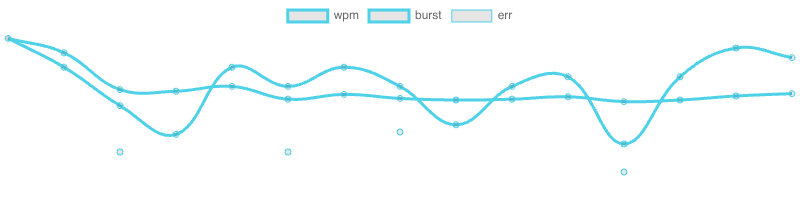
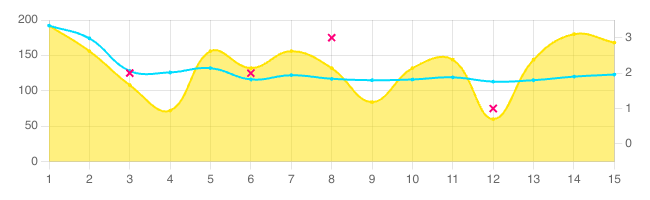
fuck chartjs im gonna do this myself

diff --git a/src/graph-old.ts b/src/graph-old.ts
@@ -1,0 +1,159 @@
+// import { Canvas } from "skia-canvas";
+
+// import {
+//   Chart,
+//   LineController,
+//   LineElement,
+//   PointElement,
+//   LinearScale,
+//   CategoryScale,
+//   registerables,
+// } from "chart.js";
+// Chart.register(
+//   ...registerables,
+//   LineController,
+//   LineElement,
+//   PointElement,
+//   LinearScale,
+//   CategoryScale,
+// );
+
+// const canvas = new Canvas(650, 200);
+// const ctx = canvas.getContext("2d");
+
+// ctx.fillStyle = "#fff";
+// ctx.fillRect(0, 0, canvas.width, canvas.height);
+
+// new Chart(canvas as any, {
+//   data: {
+//     labels: [1, 2, 3, 4, 5, 6, 7, 8, 9, 10, 11, 12, 13, 14, 15],
+//     datasets: [
+//       {
+//         type: "line",
+//         label: "wpm",
+//         yAxisID: "wpm",
+//         data: [
+//           192, 174, 128, 126, 132, 116, 122, 117, 115, 116, 119, 113, 115, 120,
+//           123,
+//         ],
+//         borderColor: "#00DDFF",
+//         borderWidth: 2,
+//         tension: 0.4,
+//         order: 2,
+//         pointRadius: 1,
+//         pointBackgroundColor: "#00DDFF",
+//       },
+//       {
+//         type: "line",
+//         label: "burst",
+//         yAxisID: "wpm",
+//         borderWidth: 2,
+//         data: [
+//           192, 156, 108, 72, 156, 132, 156, 132, 84, 132, 144, 60, 144, 180,
+//           168,
+//         ],
+//         borderColor: "#FFE300",
+//         tension: 0.4,
+//         fill: true,
+//         backgroundColor: "rgba(255, 227, 0, 0.5)",
+//         pointRadius: 1,
+//         order: 3,
+//         pointBackgroundColor: "#FFE300",
+//       },
+//       {
+//         type: "scatter",
+//         yAxisID: "err",
+//         label: "err",
+//         data: [
+//           null,
+//           null,
+//           2,
+//           null,
+//           null,
+//           2,
+//           null,
+//           3,
+//           null,
+//           null,
+//           null,
+//           1,
+//           null,
+//           null,
+//           null,
+//         ],
+//         pointBorderColor: "#FF007B",
+//         borderColor: "#FF007B",
+//         tension: 0.4,
+//         pointStyle: "crossRot",
+//         pointRadius: 5,
+//         pointBorderWidth: 2,
+//         order: 1,
+//       },
+//     ],
+//   },
+//   options: {
+//     layout: {
+//       padding: {
+//         left: 15,
+//         right: 15,
+//         top: 20,
+//         bottom: 10,
+//       },
+//     },
+//     plugins: {
+//       legend: {
+//         display: false,
+//       },
+//     },
+//     scales: {
+//       x: {
+//         grid: {
+//           display: true,
+//         },
+//         ticks: {
+//           display: true,
+//         },
+//         border: {
+//           display: true,
+//         },
+//       },
+//       wpm: {
+//         type: "linear",
+//         display: true,
+//         position: "left",
+//         min: 0,
+//         ticks: {
+//           stepSize: 50,
+//           display: true,
+//         },
+//         grid: {
+//           display: true,
+//         },
+//         border: {
+//           display: true,
+//         },
+//       },
+//       err: {
+//         type: "linear",
+//         display: true,
+//         position: "right",
+//         offset: true,
+//         max: 3,
+//         min: 0,
+//         grid: {
+//           drawOnChartArea: false,
+//           display: true,
+//         },
+//         ticks: {
+//           display: true,
+//           precision: 0,
+//         },
+//         border: {
+//           display: true,
+//         },
+//       },
+//     },
+//   },
+// });
+
+// await Bun.write("chart.png", await canvas.png);

diff --git a/src/index.ts b/src/index.ts
@@ -23,136 +23,6 @@ const client = new WebClient(process.env.SLACK_BOT_TOKEN);
 
 import { formatInTimeZone } from "date-fns-tz";
 
-import { Canvas } from "skia-canvas";
-
-import {
-  Chart,
-  LineController,
-  LineElement,
-  PointElement,
-  LinearScale,
-  CategoryScale,
-  registerables,
-} from "chart.js";
-Chart.register(
-  ...registerables,
-  LineController,
-  LineElement,
-  PointElement,
-  LinearScale,
-  CategoryScale,
-);
-
-const canvas = new Canvas(800, 200);
-const ctx = canvas.getContext("2d");
-
-ctx.fillStyle = "#fff";
-ctx.fillRect(0, 0, canvas.width, canvas.height);
-
-new Chart(canvas as any, {
-  data: {
-    labels: [1, 2, 3, 4, 5, 6, 7, 8, 9, 10, 11, 12, 13, 14, 15],
-    datasets: [
-      {
-        type: "line",
-        label: "wpm",
-        yAxisID: "wpm",
-        data: [
-          192, 174, 128, 126, 132, 116, 122, 117, 115, 116, 119, 113, 115, 120,
-          123,
-        ],
-        borderColor: "#4fd1e8",
-        tension: 0.4,
-      },
-      {
-        type: "line",
-        label: "burst",
-        yAxisID: "wpm",
-        data: [
-          192, 156, 108, 72, 156, 132, 156, 132, 84, 132, 144, 60, 144, 180,
-          168,
-        ],
-        borderColor: "#4fd1e8",
-        tension: 0.4,
-      },
-      {
-        type: "scatter",
-        yAxisID: "err",
-        label: "err",
-        data: [
-          null,
-          null,
-          2,
-          null,
-          null,
-          2,
-          null,
-          3,
-          null,
-          null,
-          null,
-          1,
-          null,
-          null,
-          null,
-        ],
-        borderColor: "#4fd1e8",
-        tension: 0.4,
-      },
-    ],
-  },
-  options: {
-    scales: {
-      x: {
-        grid: {
-          display: false,
-        },
-        ticks: {
-          display: false,
-        },
-        border: {
-          display: false,
-        },
-      },
-      wpm: {
-        type: "linear",
-        display: true,
-        position: "left",
-        min: 0,
-        ticks: {
-          stepSize: 40,
-          display: false,
-        },
-        grid: {
-          display: false,
-        },
-        border: {
-          display: false,
-        },
-      },
-      err: {
-        type: "linear",
-        display: true,
-        position: "right",
-        max: 8,
-        min: 0,
-        grid: {
-          drawOnChartArea: false,
-          display: false,
-        },
-        ticks: {
-          display: false,
-        },
-        border: {
-          display: false,
-        },
-      },
-    },
-  },
-});
-
-await Bun.write("chart.png", await canvas.png);
-
 fastify.post("/interactivity", async (req, res) => {
   const body = req.body as { payload: string };
   const payload = JSON.parse(body.payload);
@@ -415,7 +285,7 @@ fastify.post("/lastrun", async (req, res) => {
             text: `${Math.round(data.wpm)} WPM  /  ${Math.round(data.acc)}% acc`,
           },
           level: 1,
-        },
+        } as any,
         {
           type: "section",
           text: {